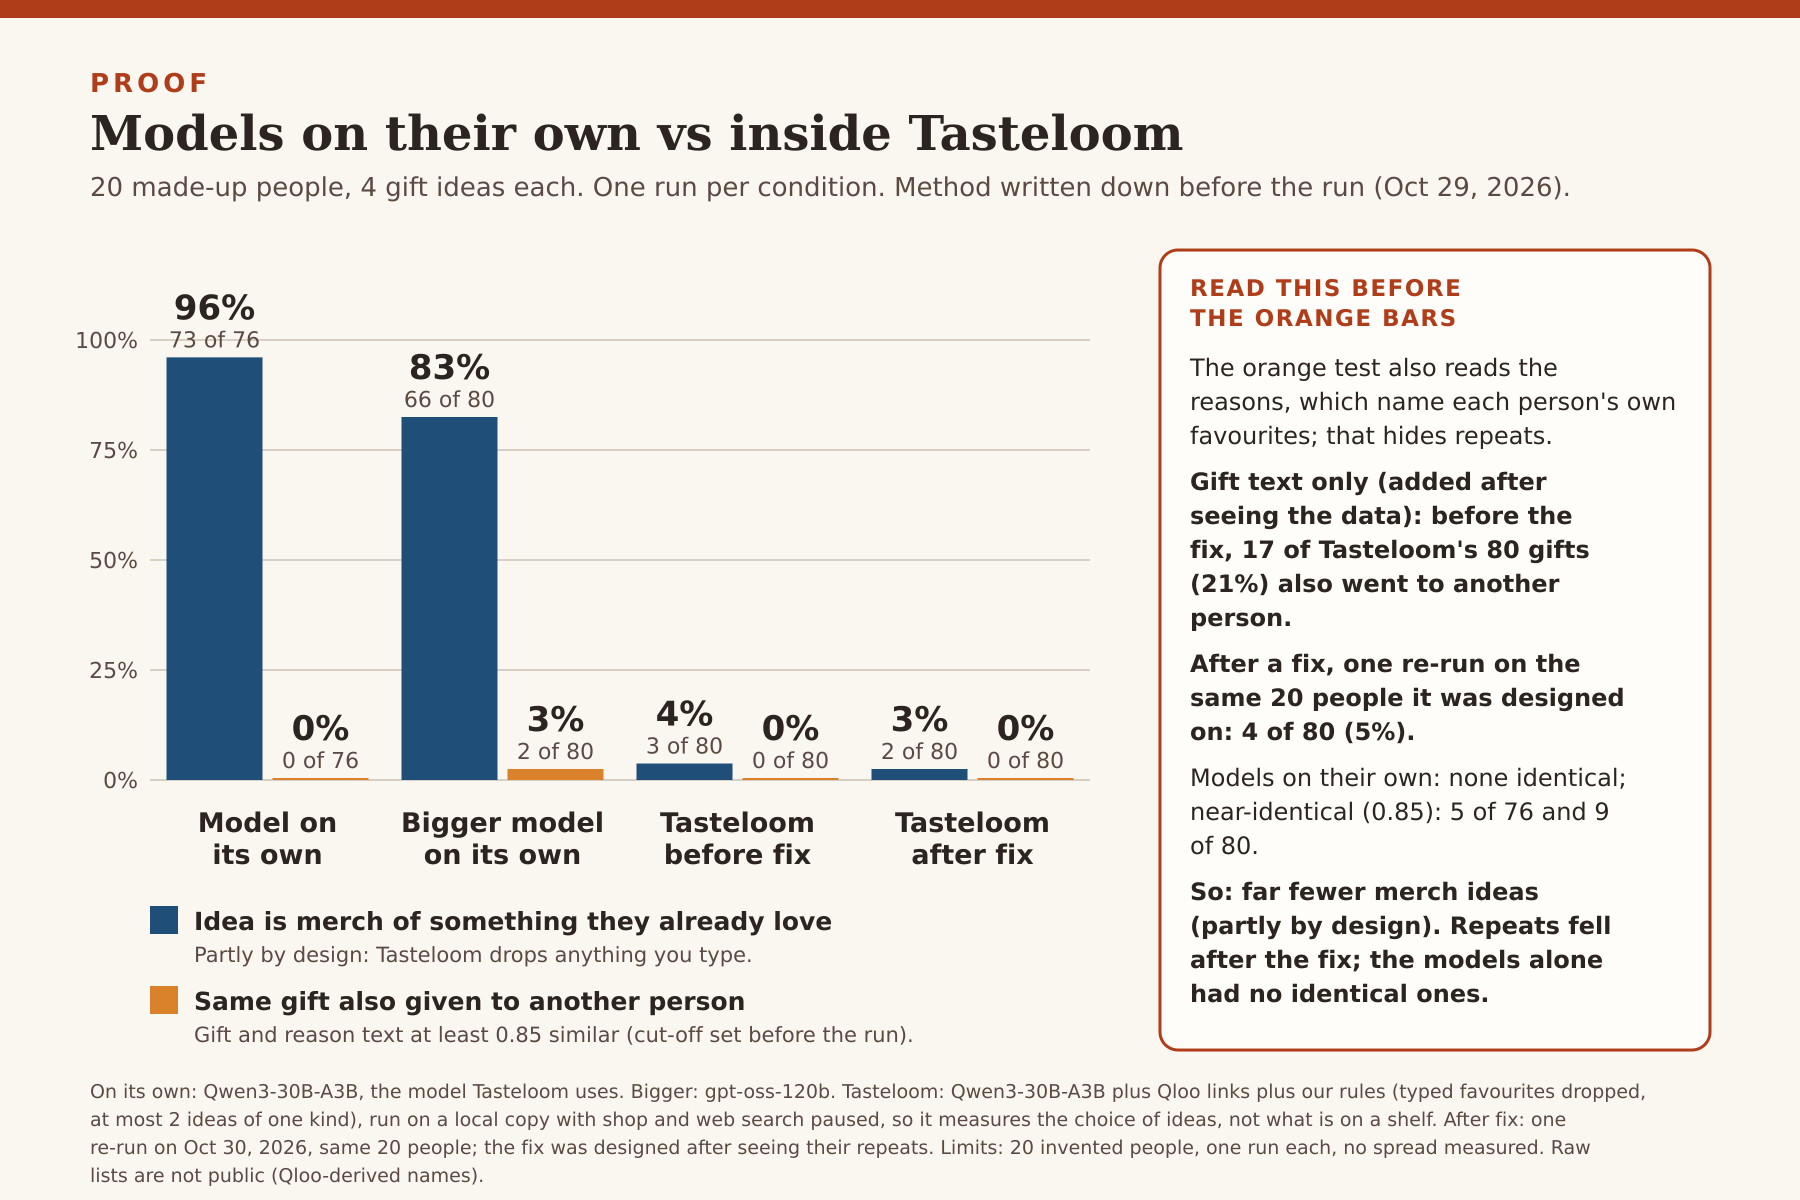
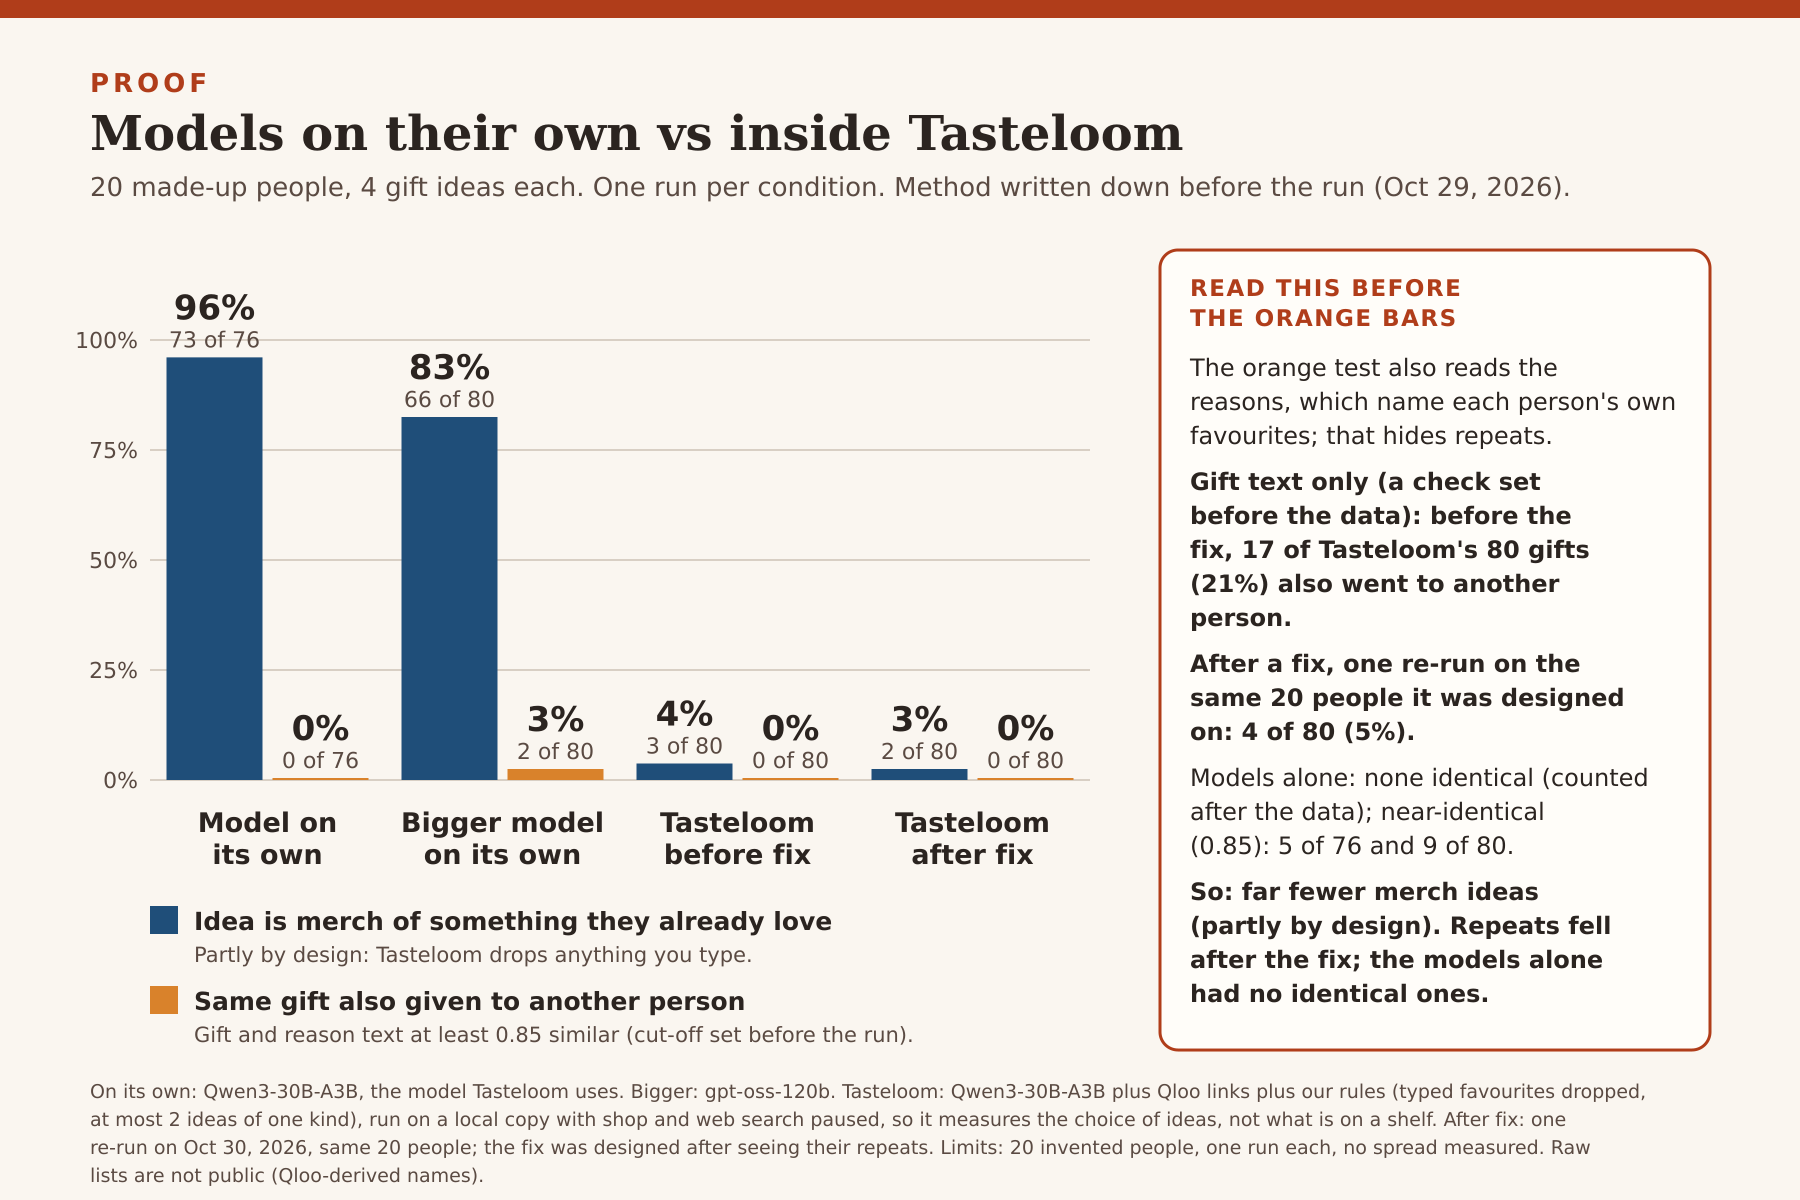
Proof chart: the gift-text check was set before the data
The chart box said the gift-text-only count was added after seeing the
data. The gift-text-alone check was fixed before any scored data; only
the identical-text count was made after. Chart and its explanation say so.

Claude-Session: https://claude.ai/code/session_01GAS3TwEvq8rdhgJTGSQMuH

Changed region(s): [[0.6533, 0.6167, 0.9022, 0.7092], [0.7778, 0.37, 0.8711, 0.4317], [0.6533, 0.4008, 0.7156, 0.4625]]

diff --git a/docs/proof.md b/docs/proof.md
@@ -23,7 +23,7 @@ Counted after we saw the run 1 data (not frozen): gifts with identical text for 
 
 ![Bar chart, 20 made-up people, 4 gift ideas each, one run per condition. Idea is merch of something they already love: model on its own 73 of 76 (96%), bigger model on its own 66 of 80 (83%), Tasteloom before the fix 3 of 80 (4%), after the fix 2 of 80 (3%). Same gift also given to another person, gift and reason text at least 0.85 similar: 0 of 76, 2 of 80 (3%), 0 of 80 before the fix, 0 of 80 after the fix. A caveat box says those orange bars also read the reasons, which hides repeats; on gift text only, 17 of Tasteloom's 80 gifts (21%) also went to another person before the fix and 4 of 80 (5%) after it, in one re-run on the same 20 people the fix was designed on; the models on their own gave no identical gifts to two people, and near-identical (0.85) 5 of 76 and 9 of 80.](proof-chart.png)
 
-Reading the chart. Its orange bars are the frozen same-gift measure, which also reads the first 12 words of each reason. Tasteloom's reasons name each person's own favourites, which hides repeated gifts, so its 0% there must not be read alone. The box in the chart says its gift-text count was "added after seeing the data". To be exact: the gift-text-alone similarity rows in the tables below were added to the design after the pilot runs on two other made-up people and before any scored data, as checks next to the main measure; the count of gifts with identical text, and its split by kind, were made after we saw the run 1 data. The box's 17 of 80 is both things: at 0.85 it is the gift-text row, and it is also the identical-text count.
+Reading the chart. Its orange bars are the frozen same-gift measure, which also reads the first 12 words of each reason. Tasteloom's reasons name each person's own favourites, which hides repeated gifts, so its 0% there must not be read alone. The box in the chart gives the gift-text-alone check. It was added to the design after the pilot runs on two other made-up people and before any scored data, as a check next to the main measure; the count of gifts with identical text, and its split by kind, were made after we saw the run 1 data. The box's 17 of 80 is both things: at 0.85 it is the gift-text row, and it is also the identical-text count.
 
 ## What we asked
 
